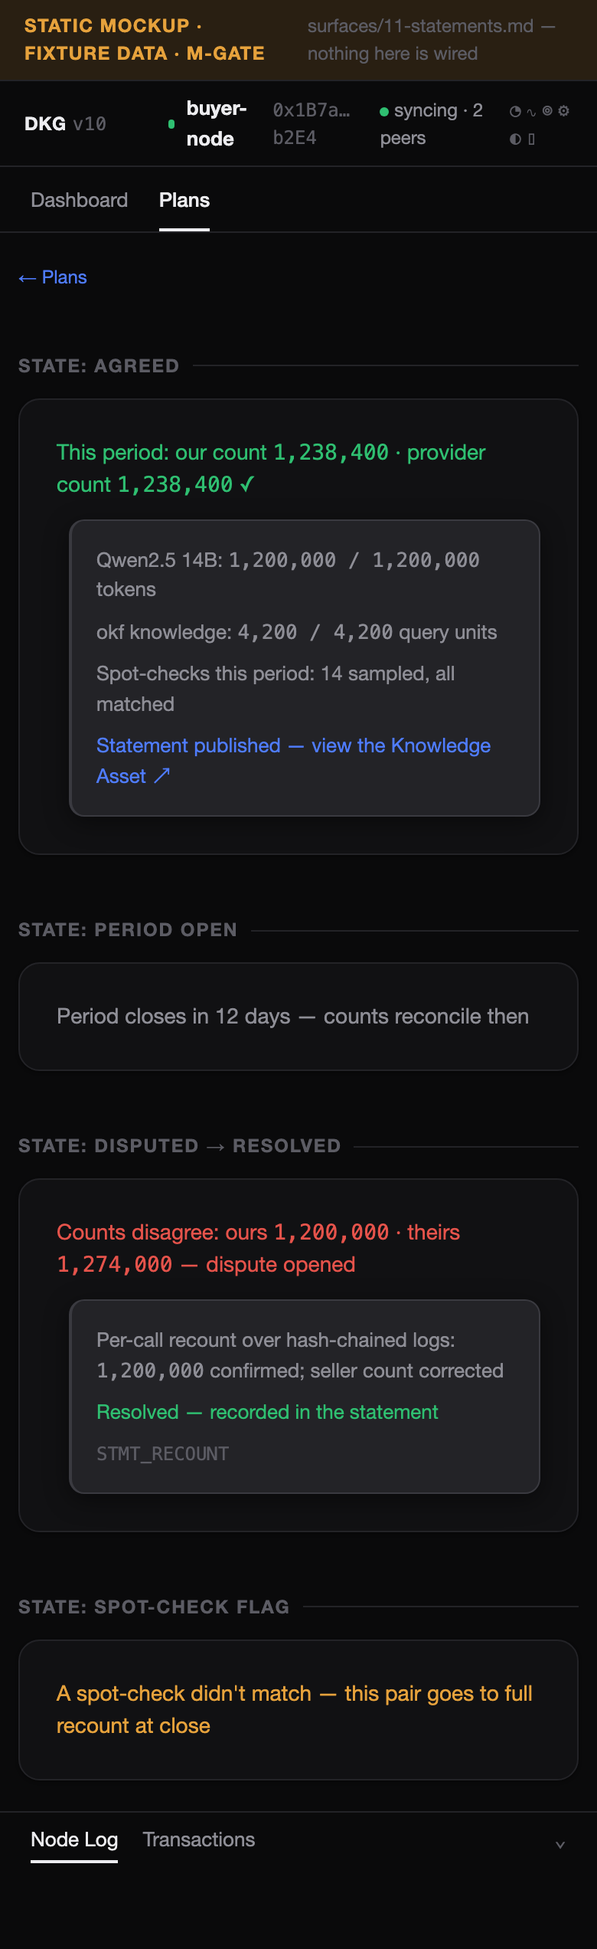
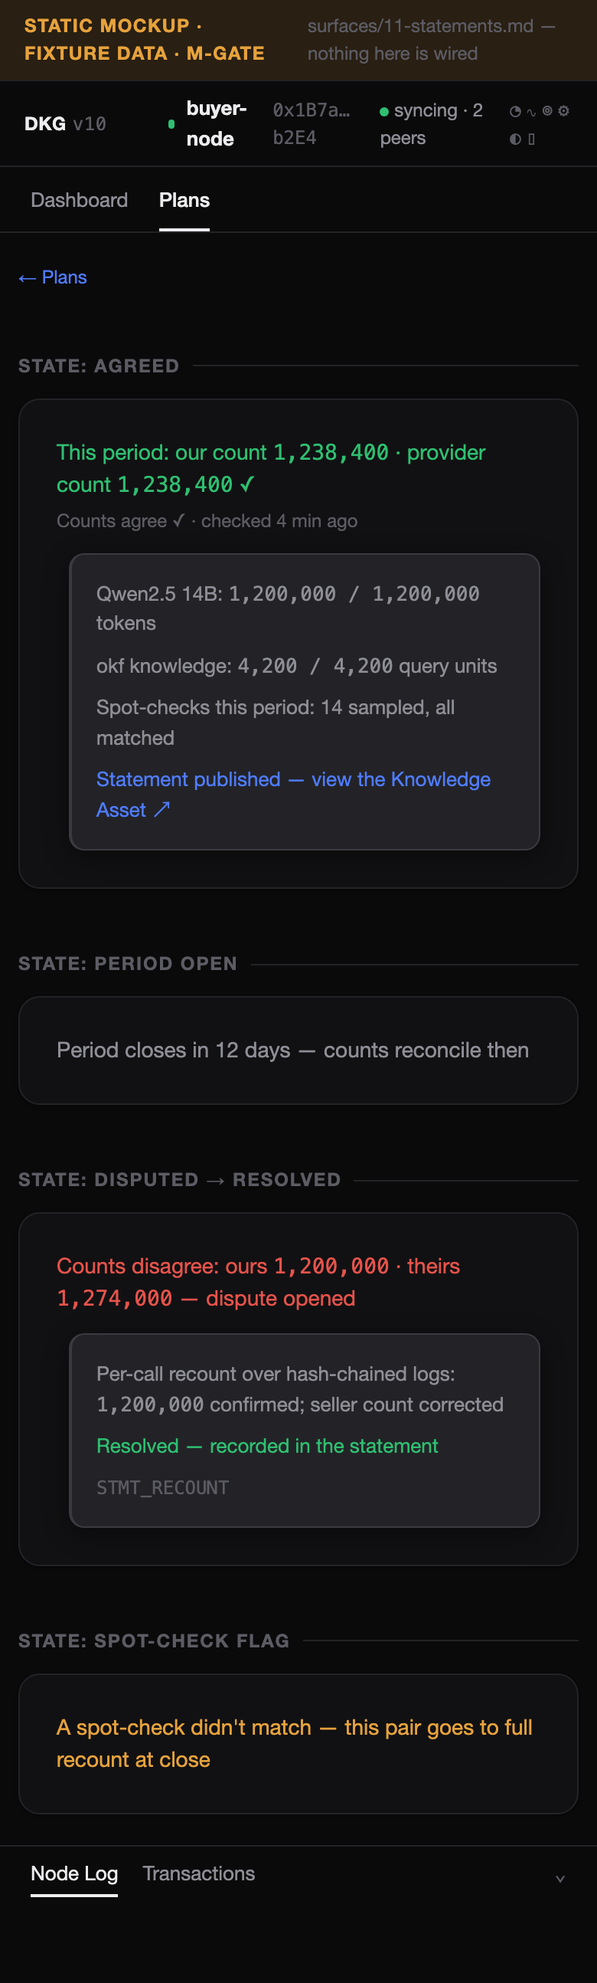
P5 continuation: CP-R riders closed + rebase audit
Rider 1: stale 'shared drawdown' label fixed with full sibling sweep (also
killed: fork wait-options, runtime-routing copy — per consolidated delta);
one-provider-per-offering on composer/model-page/meters; expired state gains
start-a-new-period; statement gains the freshness line. Rider 2: data-copy
keying convention + copy-probe.mjs, zero unkeyed strings. REBASE.md kill-list
audit; PLAN G4 deleted, G5 corrected, G16-G22 added.

Claude-Session: https://claude.ai/code/session_01JiTT3xcuesA55AyqxVU4c1

diff --git a/docs/ui-spec/mockups/p5/02-plan-composer.html b/docs/ui-spec/mockups/p5/02-plan-composer.html
@@ -40,55 +40,55 @@
 
   <div class="state-label">state: composing (live preview)</div>
   <div class="card card--pad stack">
-    <div class="head"><h1 style="font-size:var(--fs-xl)" id="top">Compose your plan</h1>
+    <div class="head"><h1 data-copy="composer.title" style="font-size:var(--fs-xl)" id="top">Compose your plan</h1>
       <div class="sec sm">Period <select><option>monthly</option><option>weekly</option></select></div></div>
     <div class="off-row"><label class="sec">Period budget</label><span><input class="input mono" value="3.6 TRAC" size="9"> <span class="sec">≈ $1.01</span></span></div>
 
     <div class="sellergrp">
       <header><strong>okf-mainnet</strong></header>
       <div class="off-row"><span>✓ Qwen2.5 14B <span style="color:var(--prov-pinned)">⛓</span></span><span class="mono sec">~$0.17/1M</span></div>
-      <div class="off-row"><span>✓ Qwen2.5 7B <span style="color:var(--prov-pinned)">⛓</span></span><span class="mono sec">~$0.10/1M</span></div>
+      <div class="off-row"><span class="muted">— Qwen2.5 7B <span class="xs">(hermes chosen for this model)</span></span><span class="mono muted">~$0.10/1M</span></div>
       <div class="off-row"><span>✓ gpt-5.x <span style="color:var(--prov-claimed)">☁</span></span><span class="mono sec">~$0.31/1M</span></div>
       <div class="off-row"><span>✓ okf knowledge <span class="muted xs">query · CGs: neurosymbolic-marketplace, odysseus</span></span><span class="mono sec">~$4.27/1M units</span></div>
-      <div class="preview">≈ 4.5M Qwen 14B tokens · 2.9M Qwen 7B tokens · 183k query units per period — each with its own meter</div>
+      <div class="preview">≈ 4.5M Qwen 14B tokens · 200k gpt-5.x tokens · 183k query units per period — each with its own meter</div>
     </div>
 
     <div class="sellergrp">
       <header><strong>hermes</strong></header>
-      <div class="off-row"><span>✓ Qwen2.5 7B <span style="color:var(--prov-pinned)">⛓</span> <span class="muted xs">pinned to hermes</span></span><span class="mono sec">~$0.084/1M</span></div>
-      <div class="preview">At least 5,000,000 tokens — more if routed cheaper</div>
+      <div class="off-row"><span>✓ Qwen2.5 7B <span style="color:var(--prov-pinned)">⛓</span> <span class="muted xs">cheapest for this model ✓</span></span><span class="mono sec">~$0.084/1M</span></div>
+      <div class="preview">5,000,000 tokens per period at hermes’s frozen price · cheapest of 2 providers ✓</div>
     </div>
 
-    <details style="border-top:1px solid var(--border-subtle); padding-top:var(--sp-3)"><summary class="sec sm">Advanced</summary>
+    <details style="border-top:1px solid var(--border-subtle); padding-top:var(--sp-3)"><summary data-copy="composer.advanced" class="sec sm">Advanced</summary>
       <div style="display:grid; gap:var(--sp-2); padding:var(--sp-3) 0 0; font-size:var(--fs-sm)">
         <div style="display:flex; justify-content:space-between; gap:var(--sp-3)"><span>Max price</span><span><input class="input mono" value="$0.12/1M" size="8"></span></div>
         <div style="display:flex; justify-content:space-between; gap:var(--sp-3)"><span>Pin providers</span><span class="muted xs">Qwen 7B → hermes</span></div>
       </div></details>
     <div class="pay">
       <div class="off-row stack-sm"><span class="sec">This plan pays 2 providers</span><span class="mono">okf-mainnet 2.8 TRAC · hermes 0.8 TRAC</span></div>
-      <div class="sec sm">Cheaper routing gives you more, never less. Your node picks the cheapest included provider automatically.</div>
+      <div class="sec sm">One provider per offering, chosen here. The cheapest is pre-selected; compare and switch on the model page — changes take effect at the next period.</div>
       <div class="muted xs">Prices are frozen for the period. Changes you make take effect at the next period.</div>
-      <div style="text-align:right"><a class="btn btn--primary" href="#consent2">Review payments →</a></div>
+      <div style="text-align:right"><a class="btn btn--primary" data-copy="composer.review" href="#consent2">Review payments →</a></div>
     </div>
   </div>
 
 
   <div class="state-label" id="consent2">one confirmation — a composed plan lists every provider you chose</div>
   <div class="card card--pad stack">
-    <h2>One confirmation</h2>
+    <h2 data-copy="onboard.consent.title">One confirmation</h2>
     <div style="border:1px solid var(--state-pending); border-radius:var(--r-md); padding:var(--sp-4); display:grid; gap:var(--sp-3); font-size:var(--fs-sm)">
       <div style="display:grid; grid-template-columns:1fr auto auto; gap:var(--sp-3)"><span><strong>okf-mainnet</strong> <span class="muted xs">to 0x…okf revenue wallet</span></span><span class="mono">2.8 TRAC</span><span class="sec">~$0.78</span></div>
       <div style="display:grid; grid-template-columns:1fr auto auto; gap:var(--sp-3)"><span><strong>hermes</strong> <span class="muted xs">to 0x…hermes revenue wallet</span></span><span class="mono">0.8 TRAC</span><span class="sec">~$0.22</span></div>
       <div style="display:grid; grid-template-columns:1fr auto auto; gap:var(--sp-3)" class="sec"><span>2 transfers, sent one after the other</span><span class="mono">3.6 TRAC</span><span>~$1.01</span></div>
       <div style="color:var(--text-secondary); border-top:1px solid var(--border-subtle); padding-top:var(--sp-3)">Payments are final. Unused allowance expires at period end — like any subscription.</div>
-      <div style="display:flex; justify-content:space-between"><a class="btn" href="#top">Cancel</a><a class="btn btn--primary" href="01-subscribe-onboarding.html#key">Confirm</a></div>
+      <div style="display:flex; justify-content:space-between"><a class="btn" data-copy="gate.cancel" href="#top">Cancel</a><a class="btn btn--primary" data-copy="gate.confirm" href="01-subscribe-onboarding.html#key">Confirm</a></div>
     </div>
     <p class="muted xs">Adding a provider is always this explicit — one row you chose, one payment line you see. Nothing subscribes you to a second seller implicitly.</p>
   </div>
 
   <div class="state-label">state: mid-cycle (read-only except top-up)</div>
   <div class="card card--pad stack">
-    <div class="off-row"><span class="sec">Plan active — expires in 12 days</span><a class="btn" href="01-subscribe-onboarding.html#consent">Top up</a></div>
+    <div class="off-row"><span class="sec">Plan active — expires in 12 days</span><a class="btn" data-copy="meter.topup" href="01-subscribe-onboarding.html#consent">Top up</a></div>
     <p class="muted xs">Allocation edits queue for the next cycle. Prices stay frozen until then.</p>
   </div>
 

diff --git a/docs/ui-spec/mockups/p5/05-plans-meters.html b/docs/ui-spec/mockups/p5/05-plans-meters.html
@@ -49,7 +49,7 @@
 
     <div class="state-label">state: normal — every offering meters itself</div>
   <div class="card card--pad stack">
-    <div class="planhead"><h1 style="font-size:var(--fs-xl)">Plan overall: 34% of this period's value used</h1><span class="sec">Expires in 12 days · <a href="01-subscribe-onboarding.html#consent">Top up</a> · <a href="02-plan-composer.html" class="muted">Upgrade next period</a></span></div>
+    <div class="planhead"><h1 data-copy="meter.summary" style="font-size:var(--fs-xl)">Plan overall: 34% of this period's value used</h1><span class="sec">Expires in 12 days · <a href="01-subscribe-onboarding.html#consent">Top up</a> · <a href="02-plan-composer.html" class="muted">Upgrade next period</a></span></div>
     <p class="muted xs">A readout, not a limit — each meter below is its own ceiling.</p>
     <div class="mrow">
       <div class="mhead"><span><strong>Qwen2.5 14B</strong> <span class="muted xs">via okf-mainnet</span> — 24% used · Expires in 12 days</span><span class="mono sec">76% left</span></div>
@@ -58,7 +58,7 @@
       <div class="sparkrow"><span class="spark"><i style="height:16%"></i><i style="height:24%"></i><i style="height:24%"></i><i style="height:32%"></i><i style="height:48%"></i><i style="height:72%"></i><i style="height:96%"></i></span><span class="pace warn">At this pace: runs out ~4 days before expiry</span></div>
     </div>
     <div class="mrow">
-      <div class="mhead"><span><strong>Qwen2.5 7B</strong> <span class="muted xs">via hermes · okf-mainnet</span> — 12% used · Expires in 12 days</span><span class="mono sec">88% left</span></div>
+      <div class="mhead"><span><strong>Qwen2.5 7B</strong> <span class="muted xs">via hermes</span> — 12% used · Expires in 12 days</span><span class="mono sec">88% left</span></div>
       <div class="bar plain"><i style="width:12%"></i></div>
       <div class="sparkrow"><span class="spark"><i style="height:16%"></i><i style="height:16%"></i><i style="height:24%"></i><i style="height:16%"></i><i style="height:24%"></i><i style="height:16%"></i><i style="height:24%"></i></span><span class="pace quiet">On track to expiry</span></div>
     </div>
@@ -85,21 +85,22 @@
   <div class="card card--pad stack">
     <div class="mhead"><span><strong>Qwen2.5 14B</strong> <span class="muted xs">via okf-mainnet</span></span><span style="color:var(--gauge-over)">100%</span></div>
     <div class="bar hit"><i style="width:100%"></i></div>
-    <h2>You've reached this ceiling</h2>
-    <div class="fork"><a class="btn btn--primary" href="01-subscribe-onboarding.html#consent">Top up</a><span class="sec sm">or wait — expires in 12 d · or switch to Qwen 7B, 88% left — every other meter still works</span></div>
+    <h2 data-copy="meter.hit.title">You've reached this ceiling</h2>
+    <div class="fork"><a class="btn btn--primary" data-copy="fork.topup" href="01-subscribe-onboarding.html#consent">Top up</a><span class="sec sm">or switch to Qwen 7B, 88% left — every other meter still works</span></div>
   </div>
 
   <div class="state-label">state: new period — expiry journaled, not returned</div>
   <div class="card card--pad stack">
-    <div class="mhead"><span><strong>Plan: 0% used</strong></span><span class="sec">Expires in 30 days</span></div>
+    <div class="mhead"><span><strong>Period ended</strong></span><span class="sec">No active period</span></div>
     <div class="bar plain"><i style="width:0%"></i></div>
     <p class="sec sm">Expired at period end: $0.05 — value recognized, not returned</p>
+    <div style="display:flex; gap:var(--sp-3); align-items:center; flex-wrap:wrap"><a class="btn btn--primary" data-copy="meter.newperiod" href="01-subscribe-onboarding.html#consent">Start a new period</a><span class="muted xs">Nothing renews by itself — a new period begins only with a new confirmed payment.</span></div>
     <p class="muted xs">Unused allowance expires at period end — like any subscription.</p>
   </div>
 
   <div class="state-label">recent activity — where the allowance went</div>
   <div class="card card--pad stack">
-    <div class="mhead"><h2>Recent activity</h2><span class="fchips"><span class="on">All</span><a href="10-access.html" style="border:1px solid var(--border-strong); border-radius:var(--r-full); padding:var(--sp-1) var(--sp-3); color:var(--text-secondary)">my-agent</a><a href="10-access.html" style="border:1px solid var(--border-strong); border-radius:var(--r-full); padding:var(--sp-1) var(--sp-3); color:var(--text-secondary)">ci-bot</a></span></div>
+    <div class="mhead"><h2 data-copy="activity.title">Recent activity</h2><span class="fchips"><span class="on">All</span><a href="10-access.html" style="border:1px solid var(--border-strong); border-radius:var(--r-full); padding:var(--sp-1) var(--sp-3); color:var(--text-secondary)">my-agent</a><a href="10-access.html" style="border:1px solid var(--border-strong); border-radius:var(--r-full); padding:var(--sp-1) var(--sp-3); color:var(--text-secondary)">ci-bot</a></span></div>
     <table class="act">
       <tr><td>14:32</td><td>Qwen 14B</td><td>via okf-mainnet</td><td>1,840 tokens</td><td>&lt;$0.01</td><td>my-agent</td></tr>
       <tr><td>14:31</td><td>query</td><td>via okf-mainnet</td><td>41 units</td><td>&lt;$0.01</td><td>my-agent</td></tr>

diff --git a/docs/ui-spec/mockups/p5/03-catalog-subscribed.html b/docs/ui-spec/mockups/p5/03-catalog-subscribed.html
@@ -37,19 +37,19 @@
   <div class="grid">
     <div class="card mcard"><h3><a href="04-model-page-covered.html">Qwen2.5 14B Instruct</a></h3>
       <div class="row"><span class="sec">Qwen · text · via <a href="07-storefront.html">okf-mainnet</a></span><span style="color:var(--prov-pinned)">⛓ Weights verified</span></div>
-      <div class="row"><span class="mono sec">~$0.17/1M tokens</span><a class="chip chip--allow" href="05-plans-meters.html">76% left</a></div></div>
+      <div class="row"><span class="mono sec">~$0.17/1M tokens</span><a class="chip chip--allow" data-copy="chip.left" href="05-plans-meters.html">76% left</a></div></div>
     <div class="card mcard"><h3><a href="04-model-page-covered.html">Qwen2.5 7B Instruct</a></h3>
       <div class="row"><span class="sec">Qwen · text · via <a href="07-storefront.html">hermes</a> · <a href="07-storefront.html">okf-mainnet</a></span><span style="color:var(--prov-pinned)">⛓ Weights verified</span></div>
-      <div class="row"><span class="mono sec">from ~$0.084/1M</span><a class="chip chip--allow" href="05-plans-meters.html">76% left</a></div></div>
+      <div class="row"><span class="mono sec">from ~$0.084/1M</span><a class="chip chip--allow" data-copy="chip.left" href="05-plans-meters.html">76% left</a></div></div>
     <div class="card mcard"><h3><a href="04-model-page-covered.html">gpt-5.x</a></h3>
       <div class="row"><span class="sec">OpenAI · text · via <a href="07-storefront.html">okf-mainnet</a></span><span style="color:var(--prov-claimed)">☁ Provider-reported</span></div>
-      <div class="row"><span class="mono sec">~$0.31/1M tokens</span><a class="chip chip--allow" href="05-plans-meters.html">62% left</a></div></div>
+      <div class="row"><span class="mono sec">~$0.31/1M tokens</span><a class="chip chip--allow" data-copy="chip.left" href="05-plans-meters.html">62% left</a></div></div>
     <div class="card mcard"><h3><a href="07-storefront.html">okf knowledge</a></h3>
       <div class="row"><span class="sec">query · via <a href="07-storefront.html">okf-mainnet</a> · 2 context graphs</span><span class="muted xs">priced per query</span></div>
-      <div class="row"><span class="mono sec">~$4.27/1M units</span><a class="chip chip--allow" href="05-plans-meters.html">92% left</a></div></div>
+      <div class="row"><span class="mono sec">~$4.27/1M units</span><a class="chip chip--allow" data-copy="chip.left" href="05-plans-meters.html">92% left</a></div></div>
     <div class="card mcard"><h3><a href="04-model-page-covered.html">Llama 3.1 70B</a></h3>
       <div class="row"><span class="sec">Meta · text · via <a href="07-storefront.html">third-node.example</a></span><span style="color:var(--prov-pinned)">⛓ Weights verified</span></div>
-      <div class="row"><span class="mono sec">~$0.42/1M tokens</span><a class="chip chip--add" href="02-plan-composer.html">Add to plan</a></div></div>
+      <div class="row"><span class="mono sec">~$0.42/1M tokens</span><a class="chip chip--add" data-copy="catalog.add" href="02-plan-composer.html">Add to plan</a></div></div>
   </div>
 </div></div>
       <div class="dkg-dock"><span class="on">Node Log</span><span>Transactions</span><span class="exp">⌄</span></div>

diff --git a/docs/ui-spec/mockups/p5/09-operate-v5.html b/docs/ui-spec/mockups/p5/09-operate-v5.html
@@ -36,31 +36,31 @@
   <div class="state-label">state: seller dashboard, active period</div>
   <div class="cols">
     <div class="card card--pad stack">
-      <h2>Your ask — takes effect next cycle</h2>
+      <h2 data-copy="op.ask.editor">Your ask — takes effect next cycle</h2>
       <div class="row"><span>Qwen2.5 14B</span><span class="mono">0.6 µ/tok <span class="muted xs">no change queued</span></span></div>
       <div class="row"><span>Qwen2.5 7B</span><span class="mono">0.35 µ/tok → <input class="input mono" value="0.32" size="4"> µ <span class="muted xs">next cycle</span></span></div>
       <div class="row"><span>okf knowledge</span><span class="mono">15.24 µ/unit</span></div>
       <p class="muted xs">Current subscribers keep their frozen price until their period expires.</p>
     </div>
     <div class="card card--pad stack">
-      <h2>2 active subscriptions this period</h2>
+      <h2 data-copy="op.subscribers">2 active subscriptions this period</h2>
       <div class="row"><span class="mono">0x1B7a44F2…</span><span class="sec">38% consumed · expires 12 d</span></div>
       <div class="row"><span class="mono">0x9A21fCe0… (hermes)</span><span class="sec">71% consumed · expires 12 d</span></div>
     </div>
     <div class="card card--pad stack">
-      <h2>Statements awaiting your signature: 1</h2>
+      <h2 data-copy="op.stmt.queue">Statements awaiting your signature: 1</h2>
       <div class="row"><span>↔ 0x1B7a44F2… · Sep period</span><span class="mono sec">1,238,400 units itemized</span></div>
-      <div class="row"><span class="sec sm">Qwen 14B 1.2M tok · knowledge 4,200 units</span><a class="btn btn--primary" href="06-statement.html">Review &amp; co-sign</a></div>
+      <div class="row"><span class="sec sm">Qwen 14B 1.2M tok · knowledge 4,200 units</span><a class="btn btn--primary" data-copy="op.stmt.cosign" href="06-statement.html">Review &amp; co-sign</a></div>
     </div>
     <div class="card card--pad stack">
-      <h2>Wallets</h2>
+      <h2 data-copy="op.wallets">Wallets</h2>
       <div class="wallets">
         <div class="wallet rev"><strong>Subscription revenue</strong> — separate from the operations wallet<br>
           <span class="mono">3.6 TRAC</span> <span class="muted xs">· 0x…rev</span><br>
           <span class="muted xs">Buyer payments land here and only here. The ops wallet never holds customer funds.</span></div>
         <div class="wallet"><strong>Operations</strong><br><span class="mono">39.0044 TRAC</span> <span class="muted xs">· 0x633E5a7C… · gas + publishing</span></div>
       </div>
-      <div class="row"><span class="muted xs">Prototype 4 archive (read-only) ↗</span><button class="btn">Export calibration data</button></div>
+      <div class="row"><span class="muted xs">Prototype 4 archive (read-only) ↗</span><button class="btn" data-copy="op.calibration">Export calibration data</button></div>
     </div>
   </div>
 </div></div>

diff --git a/docs/ui-spec/mockups/p5/04-model-page-covered.html b/docs/ui-spec/mockups/p5/04-model-page-covered.html
@@ -34,13 +34,13 @@
 <div class="frame frame--narrow">
   <div class="state-label">state: one model, two sellers — the routing centerpiece</div>
   <div class="card">
-    <div class="card--pad"><p class="muted xs"><a href="03-catalog-subscribed.html">← Marketplace</a></p><h1 style="font-size:var(--fs-xl)">Qwen2.5 7B Instruct <a class="chip chip--allow" href="05-plans-meters.html" style="vertical-align:middle">88% left</a></h1>
+    <div class="card--pad"><p class="muted xs"><a href="03-catalog-subscribed.html">← Marketplace</a></p><h1 data-copy="_data" style="font-size:var(--fs-xl)">Qwen2.5 7B Instruct <a class="chip chip--allow" data-copy="chip.left" href="05-plans-meters.html" style="vertical-align:middle">88% left</a></h1>
       <p class="sec sm">Qwen · text · 8k context · <span style="color:var(--prov-pinned)">⛓ Weights verified</span> · weights sha256:1875fb29…</p></div>
-    <div class="srow"><span><strong>hermes</strong></span><span class="ask mono sec">~$0.084/1M</span><span class="muted xs">included in your plan</span><span></span></div>
-    <div class="srow"><span><strong>okf-mainnet</strong></span><span class="ask mono sec">~$0.10/1M <span class="muted xs">next cycle: ~$0.09</span></span><span class="muted xs">included in your plan</span><span></span></div>
-    <div class="srow"><span><strong>third-node.example</strong></span><span class="ask mono sec">~$0.12/1M</span><a class="chip chip--add" href="02-plan-composer.html">Add to plan</a><span></span></div>
+    <div class="srow"><span><strong>hermes</strong></span><span class="ask mono sec">~$0.084/1M</span><span style="color:var(--state-verified); font-size:var(--fs-xs)">your provider ✓</span><span></span></div>
+    <div class="srow"><span><strong>okf-mainnet</strong></span><span class="ask mono sec">~$0.10/1M <span class="muted xs">next cycle: ~$0.09</span></span><a class="chip chip--add" data-copy="model.provider.switch" href="02-plan-composer.html">Switch next period</a><span></span></div>
+    <div class="srow"><span><strong>third-node.example</strong></span><span class="ask mono sec">~$0.12/1M</span><a class="chip chip--add" data-copy="catalog.add" href="02-plan-composer.html">Add to plan</a><span></span></div>
   </div>
-  <p class="muted xs" style="margin-top:var(--sp-3)">Your node picks the cheapest included provider automatically. Adding a provider adds exactly that one seller — <a href="02-plan-composer.html">review it in the composer</a> before anything is paid.</p>
+  <p class="muted xs" style="margin-top:var(--sp-3)">One provider per offering, chosen when you subscribe — this page is where you compare. Switching takes effect at the next period. If your provider fails, the call charges nothing and says so.</p>
 </div></div>
       <div class="dkg-dock"><span class="on">Node Log</span><span>Transactions</span><span class="exp">⌄</span></div>
     </main>

diff --git a/docs/ui-spec/mockups/p5/01-subscribe-onboarding.html b/docs/ui-spec/mockups/p5/01-subscribe-onboarding.html
@@ -42,24 +42,24 @@
 
   <div class="state-label" id="pick">interaction 1 — pick the starter</div>
   <div class="card card--pad stack">
-    <h1 style="font-size:var(--fs-xl)">Three steps to your first answer</h1>
+    <h1 data-copy="onboard.p5.title" style="font-size:var(--fs-xl)">Three steps to your first answer</h1>
     <div class="steps"><div class="step is-active"><span class="n">1</span> Subscribe</div><div class="bar"></div><div class="step is-idle"><span class="n">2</span> Confirm</div><div class="bar"></div><div class="step is-idle"><span class="n">3</span> Copy your key</div></div>
     <div class="tmpl">
       <div><div style="font-weight:var(--fw-semibold)">Starter plan — $0.78/month</div>
       <div class="sec sm">Qwen 14B + Qwen 7B + 50k query units · one provider: okf-mainnet</div></div>
-      <a class="btn btn--primary" href="#consent">Choose this plan</a>
+      <a class="btn btn--primary" data-copy="onboard.sub.cta" href="#consent">Choose this plan</a>
     </div>
     <a href="02-plan-composer.html" class="sm muted">Customize →</a>
   </div>
 
   <div class="state-label" id="consent">interaction 2 — one confirmation</div>
   <div class="card card--pad stack">
-    <h2>One confirmation</h2>
+    <h2 data-copy="onboard.consent.title">One confirmation</h2>
     <div class="gate">
       <div class="gline"><span><strong>okf-mainnet</strong> <span class="muted xs">to 0x…okf revenue wallet</span></span><span class="mono">2.8 TRAC</span><span class="sec">~$0.78</span></div>
       <div class="gline sec"><span>1 transfer</span><span class="mono">2.8 TRAC</span><span>~$0.78</span></div>
       <div class="norefund">Payments are final. Unused allowance expires at period end — like any subscription.</div>
-      <div style="display:flex; justify-content:space-between"><a class="btn" href="#pick">Cancel</a><a class="btn btn--primary" href="#key">Confirm</a></div>
+      <div style="display:flex; justify-content:space-between"><a class="btn" data-copy="gate.cancel" href="#pick">Cancel</a><a class="btn btn--primary" data-copy="gate.confirm" href="#key">Confirm</a></div>
     </div>
   </div>
 

diff --git a/docs/ui-spec/mockups/p5/07-storefront.html b/docs/ui-spec/mockups/p5/07-storefront.html
@@ -35,11 +35,11 @@
   <div class="state-label">state: reachable</div>
   <div class="card card--pad stack">
     <div class="head">
-      <div><h1 style="font-size:var(--fs-xl)">okf-mainnet <span style="color:var(--prov-pinned)">⛓</span><span style="color:var(--prov-claimed)">☁</span></h1>
+      <div><h1 data-copy="_data" style="font-size:var(--fs-xl)">okf-mainnet <span style="color:var(--prov-pinned)">⛓</span><span style="color:var(--prov-claimed)">☁</span></h1>
         <p class="sec sm">99.2% responding · last 30 d <span class="muted xs">(local observation)</span></p>
         <p class="sec sm">2.4M units served · counted by both sides this period</p>
         <p class="sec sm">18 agreed statements · 1 disputed → resolved</p></div>
-      <a class="btn btn--primary" href="02-plan-composer.html">Subscribe to this node's shelf</a>
+      <a class="btn btn--primary" data-copy="store.subscribe.all" href="02-plan-composer.html">Subscribe to this node's shelf</a>
     </div>
     <div class="tablewrap"><table class="shelf">
       <tr><th>Offering</th><th>Class</th><th>Ask</th><th>Next cycle</th></tr>
@@ -51,8 +51,8 @@
   </div>
   <div class="state-label">state: unreachable (shelf readable, actions disabled)</div>
   <div class="card card--pad">
-    <div class="head"><div><h2>third-node.example</h2><p class="sm" style="color:var(--state-blocked)">Unreachable (2 h ago)</p></div>
-    <button class="btn" disabled>Subscribe to this node's shelf</button></div>
+    <div class="head"><div><h2 data-copy="_data">third-node.example</h2><p class="sm" style="color:var(--state-blocked)">Unreachable (2 h ago)</p></div>
+    <button class="btn" data-copy="store.subscribe.all" disabled>Subscribe to this node's shelf</button></div>
   </div>
 </div></div>
       <div class="dkg-dock"><span class="on">Node Log</span><span>Transactions</span><span class="exp">⌄</span></div>

diff --git a/docs/ui-spec/mockups/p5/index.html b/docs/ui-spec/mockups/p5/index.html
@@ -40,7 +40,7 @@
     <div class="jstep"><span class="n">3</span><a href="03-catalog-subscribed.html">Neurosymbolic Marketplace — catalog</a><span class="what">remaining-allowance chips · Add to plan</span></div>
     <div class="jstep"><span class="n">4</span><a href="04-model-page-covered.html">Model page</a><span class="what">two sellers of one model · covered / not-covered rows</span></div>
     <div class="jstep"><span class="n">5</span><a href="08-playground-p5.html">Playground</a><span class="what">served-by lines · % left in the switcher · the inline 402 fork · query cost</span></div>
-    <div class="jstep"><span class="n">6</span><a href="05-plans-meters.html">Plans &amp; meters</a><span class="what">the Claude usage idiom · shared drawdown itemized · approaching / hit / expiry</span></div>
+    <div class="jstep"><span class="n">6</span><a href="05-plans-meters.html">Plans &amp; meters</a><span class="what">the Claude usage idiom · per-offering meters · pace lines · approaching / hit / expiry</span></div>
     <div class="jstep"><span class="n">7</span><a href="06-statement.html">Statement line</a><span class="what">agreed · disputed → resolved · spot-checks · the KA link</span></div>
     <div class="jstep"><span class="n">8</span><a href="10-access.html">Access</a><span class="what">keys with budget chips · per-key mix · mint modal · revoke semantics</span></div>
     <div class="jstep"><span class="n">9</span><a href="07-storefront.html">Node storefront</a><span class="what">the second discovery axis — shelf, asks, next-cycle, verified volume</span></div>

diff --git a/docs/ui-spec/mockups/p5/10-access.html b/docs/ui-spec/mockups/p5/10-access.html
@@ -35,16 +35,16 @@
 
   <div class="state-label">state: key list</div>
   <div class="card card--pad stack">
-    <div style="display:flex; justify-content:space-between; align-items:baseline"><h1 style="font-size:var(--fs-xl)">Access</h1><a class="btn btn--primary" href="#mint">+ Mint key</a></div>
+    <div style="display:flex; justify-content:space-between; align-items:baseline"><h1 data-copy="access.title" style="font-size:var(--fs-xl)">Access</h1><a class="btn btn--primary" data-copy="access.mint" href="#mint">+ Mint key</a></div>
     <div class="krow">
       <span><strong>my-agent</strong> <span class="mono muted xs">nsm_k_9f2e…c41a</span><div class="kmix">mostly Qwen 14B · 12% queries</div></span>
-      <span class="chip">61% of cap</span>
-      <button class="btn">Revoke</button>
+      <span class="chip" data-copy="access.cap">61% of cap</span>
+      <button class="btn" data-copy="access.revoke.btn">Revoke</button>
     </div>
     <div class="krow">
       <span><strong>ci-bot</strong> <span class="mono muted xs">nsm_k_77aa…d203</span><div class="kmix">mostly gpt-5.x</div></span>
-      <span class="chip">18% of cap</span>
-      <button class="btn">Revoke</button>
+      <span class="chip" data-copy="access.cap">18% of cap</span>
+      <button class="btn" data-copy="access.revoke.btn">Revoke</button>
     </div>
     <p class="muted xs">Revoke — stops at the next call. Activity per key lives on <a href="05-plans-meters.html">Plans → Recent activity</a>.</p>
   </div>

diff --git a/docs/ui-spec/mockups/p5/08-playground-p5.html b/docs/ui-spec/mockups/p5/08-playground-p5.html
@@ -56,7 +56,7 @@
       <span class="mopt on">Qwen 14B · 76% left</span>
       <span class="mopt">Qwen 7B · 88% left</span>
       <span class="mopt">gpt-5.x · 62% left</span>
-      <a class="mopt" href="05-plans-meters.html">okf knowledge · 91% left</a>
+      <a class="mopt" data-copy="chip.left" href="05-plans-meters.html">okf knowledge · 91% left</a>
       
     </div>
     <div class="chat">
@@ -74,8 +74,8 @@
       <div class="fork-inline">
         <strong>This model's ceiling is reached mid-conversation. Your words are safe.</strong>
         <div style="display:flex; gap:var(--sp-3); align-items:center; flex-wrap:wrap">
-          <a class="btn btn--primary" href="01-subscribe-onboarding.html#consent">Top up</a>
-          <span class="sec sm">or wait — expires in 12 d · or switch to Qwen 7B, 88% left</span>
+          <a class="btn btn--primary" data-copy="fork.topup" href="01-subscribe-onboarding.html#consent">Top up</a>
+          <span class="sec sm">or switch to Qwen 7B, 88% left — this conversation continues there</span>
         </div>
       </div>
     </div>

diff --git a/docs/ui-spec/mockups/p5/06-statement.html b/docs/ui-spec/mockups/p5/06-statement.html
@@ -35,6 +35,7 @@
   <div class="state-label">state: agreed</div>
   <div class="card card--pad">
     <div class="stmt ok">This period: our count <span class="mono">1,238,400</span> · provider count <span class="mono">1,238,400</span> ✓</div>
+    <div class="muted xs" style="margin-top:var(--sp-1)">Counts agree ✓ · checked 4 min ago</div>
     <div class="drawer">
       <span>Qwen2.5 14B: <span class="mono">1,200,000 / 1,200,000</span> tokens</span>
       <span>okf knowledge: <span class="mono">4,200 / 4,200</span> query units</span>

diff --git a/REBASE.md b/REBASE.md
@@ -1,0 +1,55 @@
+# REBASE.md — P5 continuation rebase audit (2026-08-25)
+
+Scan of everything written so far against the consolidated delta. Baseline:
+no P5 engine code exists yet (Phase 2 had not started at CP-R), so the
+conflicts live in (a) the P4 codebase that P5 inherits, (b) PLAN.md's build
+list, (c) mockup copy — (c) was fixed in the rider commits.
+
+## Kill-list scan results
+
+| kill-list item | found | disposition |
+|---|---|---|
+| Shared / value-denominated allowance paths | **None in code** (never built — Part 0 landed before Phase 2). Mockup/fixture traces removed in gate rounds 9+; last stale label ("shared drawdown itemized", index.html) fixed in rider 1 | closed |
+| Runtime seller-routing / price-cap logic | **None in code.** P4's gateway maps modelId → ONE registered offering (`gateway/router.ts` — a lookup, not competitive routing; the only "fallback" is the honest non-streaming path, which stays). Planned-but-unbuilt G4 floor-vs-better math and G5 runtime resolution are **deleted from PLAN** before existing | closed |
+| Auto-renewal / reset scheduling / "Resets" strings / wait-option | **None in code**; zero "Resets" strings anywhere (wording swept to "Expires" in the gate cycle); fork wait-option removed from mockups + UI-COPY in rider 1 | closed |
+| Refund-shaped anything | **Exists in P4 code by design**: `core/deposit-rail.ts`, `seller/tabs.ts`, refund paths in `plugin.ts`, `buyer/actions.ts`, `core/ledger.ts` — the tab rail P5 retires. Disposition per the migration plan: public routes unregistered (404 probes), modules **deleted from the P5 build** (not just dormant — rule 2 is absolute); the P4 ledger archive stays read-only on disk. The per-leg *verifiers* (`buyer/bpe.ts`, stream verifier, recount) are NOT refund-shaped and demote into `dispute/` | executes first in Phase 2 |
+
+## Refactors (P4 modules that survive with changed roles)
+
+- `gateway/router.ts` — keeps modelId→offering lookup; gains: allowance
+  admission (per-offering meter check → 402 fork body), **no-fallback error
+  semantics** (provider failure ⇒ charge nothing, say so), key budgets.
+- `seller/offering.ts` + `seller/model-ka.ts` — publish targets move to the
+  **Marketplace Registry CG**; AskCommitment (effectiveFromCycle) added.
+- `core/inference-meter.ts` / BPE engines — demoted into `dispute/` +
+  spot-checks; also feeds both-sides metering counts.
+- `lane/*` — carries **checkpoint gossip** (SWM-only cadence traffic);
+  wire-payload role per master prompt.
+- `config.ts` — subscription config (period, cadence params 100 calls/15 min
+  jittered, compressed-period scaling), `fundingSource` seam.
+
+## New work items the gate cycle created (now in PLAN as G16–G22)
+
+G16 checkpoint service (SWM emitter + verifier, hash-chained running totals,
+divergence flagging, interim VM publish only on unresolved divergence, the
+freshness line feed) · G17 pair-CG lifecycle (auto-create at first
+subscription, membership = exactly the pair) · G18 registry-CG publishers
+(Model KAs, offers/asks, tokenizer bundles, cost schedule) · G19 Query Cost
+Schedule freeze + parser + guards (admission/delivery split, abort keeps
+admission) · G20 provider-switch-at-boundary mechanics · G21 expired state +
+start-new-period flow (nothing renews; new period = new consented payment) ·
+G22 no-fallback error semantics + I5/I6 invariants + cadence cost audit.
+
+## Calibration watch-items (instrumented from day one)
+
+checkpoint divergence rate + interval fit (tune 100/15) · interim-publish
+frequency (I6 "exactly one" in practice) · per-offering ceiling-hit
+frequency (the post-RFC pooled-credit argument) · boundary switch requests.
+
+## Documents caveat
+
+`claude-code-prompt-nsm-v5.md` and `cpr-correction-v2.md` (edited outside
+the session) were NOT found in ~/Downloads at rebase time. This audit binds
+to the continuation prompt's consolidated delta, which declares itself
+authoritative. The two files must land in `docs/` and be reconciled against
+this audit before Phase-2 engine code is written against Appendix A.
